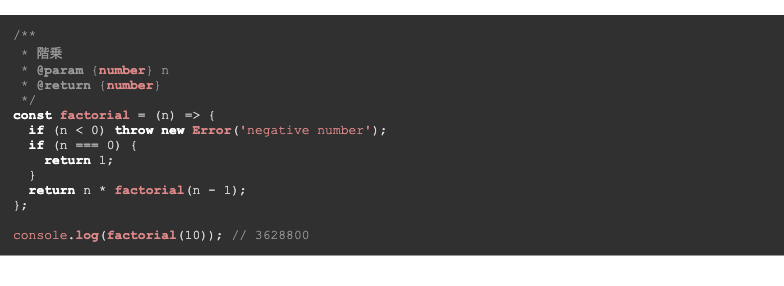
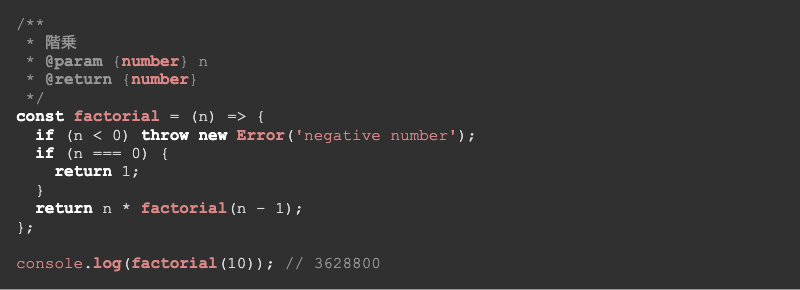
style: 余白を削除

diff --git a/008-syntax-highlight-img/index.js b/008-syntax-highlight-img/index.js
@@ -26,14 +26,13 @@ const buildHtml = (highlight) => {
 <html lang="ja">
   <head>
     <meta charset="UTF-8">
+    <link rel="stylesheet" href="https://cdn.jsdelivr.net/npm/destyle.css@3.0.2/destyle.min.css">
     <link rel="stylesheet" href="https://cdnjs.cloudflare.com/ajax/libs/highlight.js/11.6.0/styles/dark.min.css">
     <script src="https://cdnjs.cloudflare.com/ajax/libs/highlight.js/11.6.0/highlight.min.js"></script>
     <script>hljs.highlightAll();</script>
   </head>
   <body>
-    <pre>
-      <code>${highlight}</code>
-    </pre>
+    <pre><code>${highlight}</code></pre>
   </body>
 </html>`;
 };
